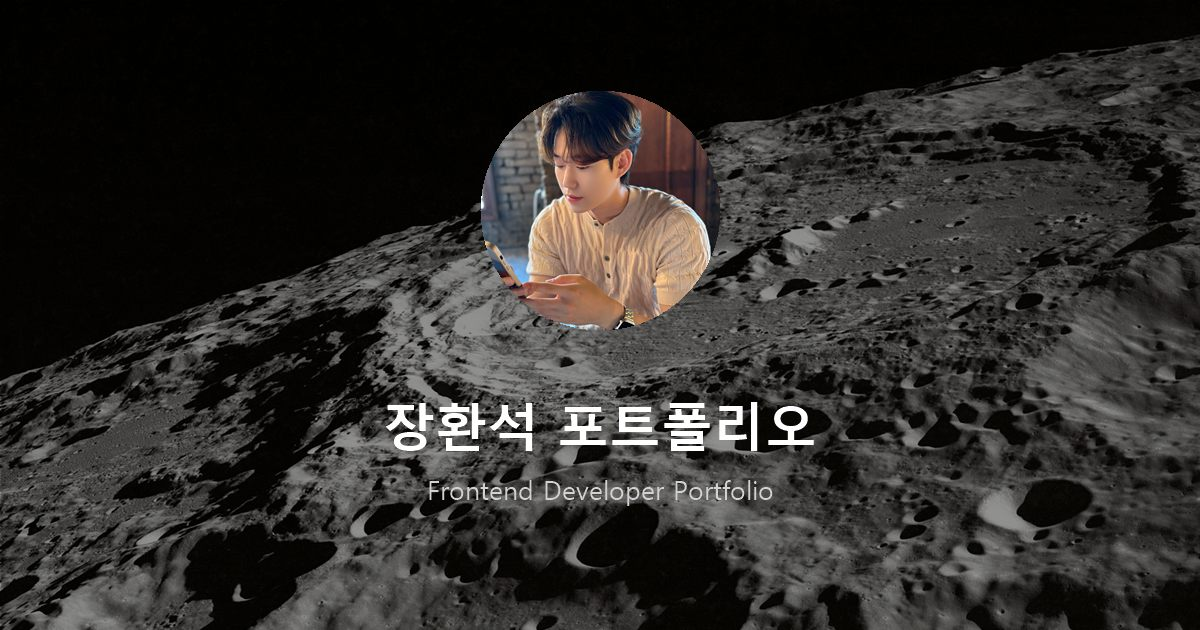
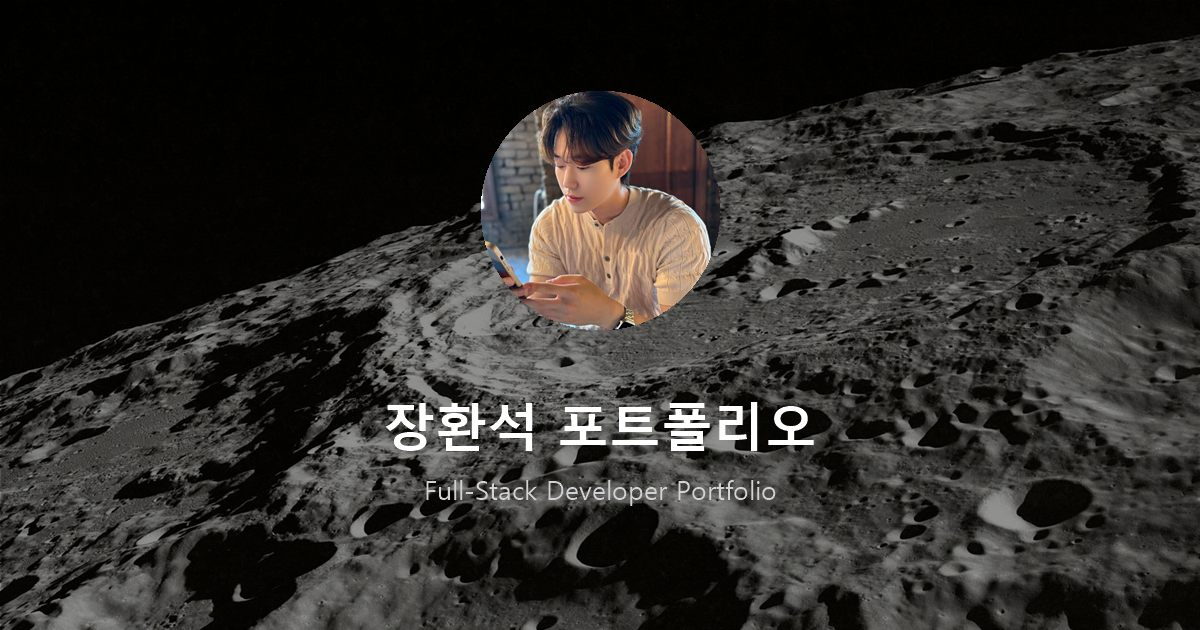
소개 문구를 풀스택 개발자 기준으로 수정
- About Me 자기소개, meta/og description, OG 이미지 서브타이틀 변경

Changed region(s): [[0.3392, 0.754, 0.6475, 0.8143]]

diff --git a/public/index.html b/public/index.html
@@ -5,11 +5,11 @@
     <link rel="icon" href="%PUBLIC_URL%/favicon.ico" />
     <meta name="viewport" content="width=device-width, initial-scale=1" />
     <meta name="theme-color" content="#000000" />
-    <meta name="description" content="프론트엔드 개발자 장환석의 포트폴리오 - 프로젝트, 기술 스택, 경력 소개"/>
+    <meta name="description" content="풀스택 개발자 장환석의 포트폴리오 - 프로젝트, 기술 스택, 경력 소개"/>
     <!-- Open Graph (카카오톡, 슬랙 등 링크 공유 미리보기) -->
     <meta property="og:type" content="website" />
     <meta property="og:title" content="장환석 포트폴리오" />
-    <meta property="og:description" content="프론트엔드 개발자 장환석의 포트폴리오 - 프로젝트, 기술 스택, 경력 소개" />
+    <meta property="og:description" content="풀스택 개발자 장환석의 포트폴리오 - 프로젝트, 기술 스택, 경력 소개" />
     <meta property="og:url" content="https://hwan1002.github.io/Portfolio/" />
     <meta property="og:image" content="https://hwan1002.github.io/Portfolio/og-image.jpg" />
     <meta property="og:image:width" content="1200" />

diff --git a/src/component/About.js b/src/component/About.js
@@ -20,10 +20,11 @@ const About = () => {
           <h3>ABOUT ME</h3>
         </div>
         <p className="aboutMe_intro">
-          안녕하세요, 사용자 경험을 먼저 생각하는 프론트엔드 개발자 <strong>장환석</strong>입니다.
+          안녕하세요, 프론트엔드부터 백엔드까지 서비스 전반을 다루는 풀스택 개발자{" "}
+          <strong>장환석</strong>입니다.
           <br />
-          퍼블리싱으로 시작해 React와 Spring Boot로 기획부터 배포까지 서비스 개발을 경험했고,
-          화면 너머의 사용자를 상상하며 만드는 일에 즐거움을 느낍니다.
+          React로 사용자 화면을 만들고 Spring Boot와 AWS로 서버 구축과 배포까지, 기획부터 운영까지
+          서비스의 전 과정을 경험했습니다.
         </p>
         <div className="section_content aboutMe_content">
           {aboutItems.map((item) => (
